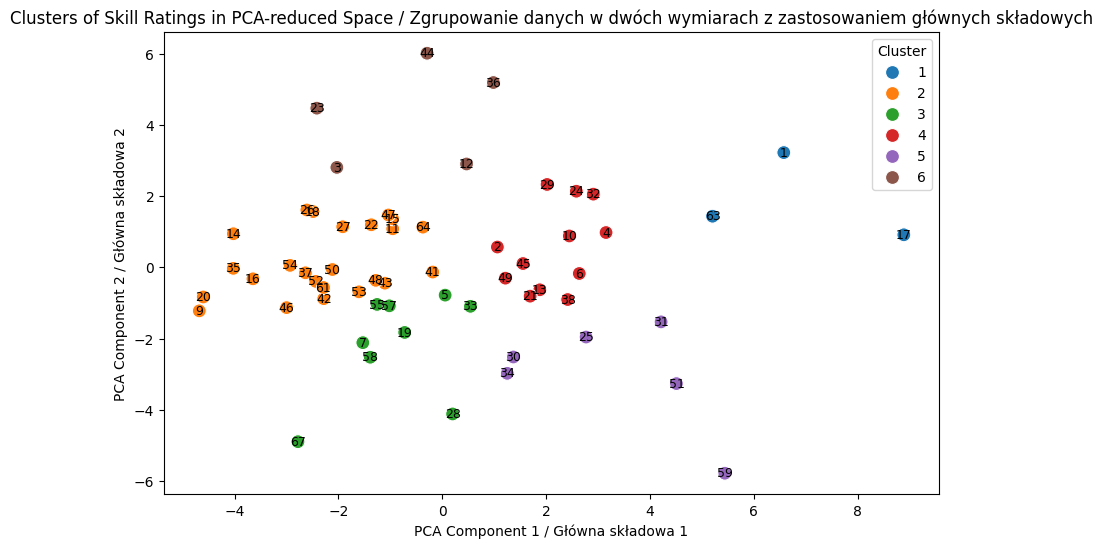
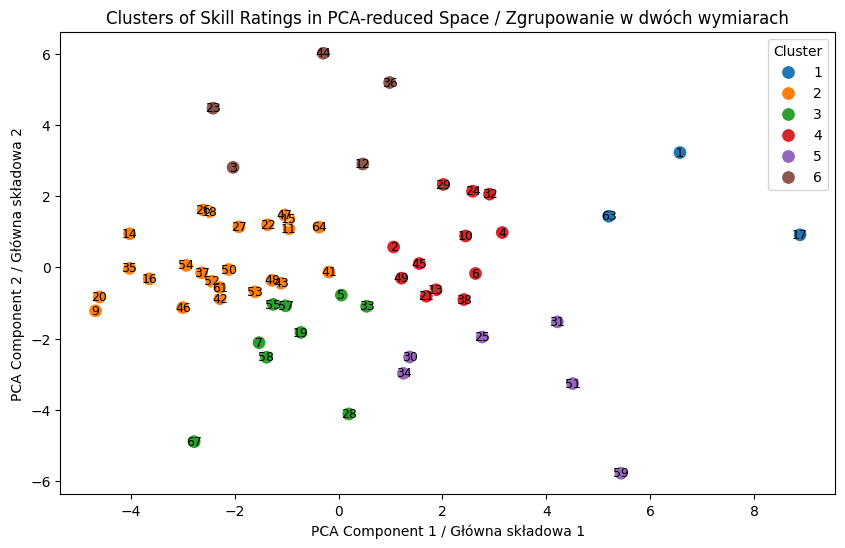
Shortened chart titles

diff --git a/notebooks/05_clustering_kmeans.py b/notebooks/05_clustering_kmeans.py
@@ -87,7 +87,7 @@ def run():
     sns.scatterplot(x=df_skills_pca[:, 0], y=df_skills_pca[:, 1], hue=df['Cluster'], palette='tab10', s=100)
     for i, id in enumerate(df['ID']):
         plt.text(df_skills_pca[i, 0], df_skills_pca[i, 1], id, fontsize=9, ha='center', va='center')
-    plt.title('Clusters of Skill Ratings in PCA-reduced Space / Zgrupowanie danych w dwóch wymiarach z zastowowaniem głównych składowych')
+    plt.title('Clusters of Skill Ratings in PCA-reduced Space / Zgrupowanie w dwóch wymiarach')
     plt.xlabel('PCA Component 1 / Główna składowa 1')
     plt.ylabel('PCA Component 2 / Główna składowa 2')
     
@@ -114,7 +114,7 @@ def run():
         ax.text(df_skills_pca[i, 0], df_skills_pca[i, 1], df_skills_pca[i, 2], id, fontsize=8, ha='center', va='center')
 
     # Adding labels
-    ax.set_title('3D Scatter Plot of Clusters / Wykres 3-wymiarowy zgrupowania danych')
+    ax.set_title('3D Scatter Plot of Clusters / Wykres 3-wymiarowy zgrupowania')
     ax.set_xlabel('PCA Component 1 / Główna składowa 1')
     ax.set_ylabel('PCA Component 2 / Główna składowa 2')
     ax.set_zlabel('PCA Component 3 / Główna składowa 3')
@@ -206,7 +206,7 @@ def run():
     sns.scatterplot(x=df_skills_pca[:, 0], y=df_skills_pca[:, 1], hue=df['Cluster'], palette='tab10', s=100)
     for i, id in enumerate(df['ID']):
         plt.text(df_skills_pca[i, 0], df_skills_pca[i, 1], id, fontsize=9, ha='center', va='center')
-    plt.title('Clusters of Skill Ratings in PCA-reduced Space (no soft skills) / Zgrupowanie danych w dwóch wymiarach z zastowowaniem głównych składowych (bez umiej. miękkich)')
+    plt.title('Clusters of Skill Ratings in PCA-reduced Space (no soft skills) / Zgrupowanie w dwóch wymiarach (bez umiej. miękkich)')
     plt.xlabel('PCA Component 1 / Główna składowa 1')
     plt.ylabel('PCA Component 2 / Główna składowa 2')
 
@@ -232,7 +232,7 @@ def run():
         ax.text(df_skills_pca[i, 0], df_skills_pca[i, 1], df_skills_pca[i, 2], id, fontsize=8, ha='center', va='center')
 
     # Adding labels
-    ax.set_title('3D Scatter Plot of Clusters (no soft skills) / Wykres 3-wymiarowy zgrupowania danych (bez umiej. miękkich)')
+    ax.set_title('3D Scatter Plot of Clusters (no soft skills) / Wykres 3-wymiarowy zgrupowania (bez umiej. miękkich)')
     ax.set_xlabel('PCA Component 1 / Główna składowa 1')
     ax.set_ylabel('PCA Component 2 / Główna składowa 2')
     ax.set_zlabel('PCA Component 3 / Główna składowa 3')
